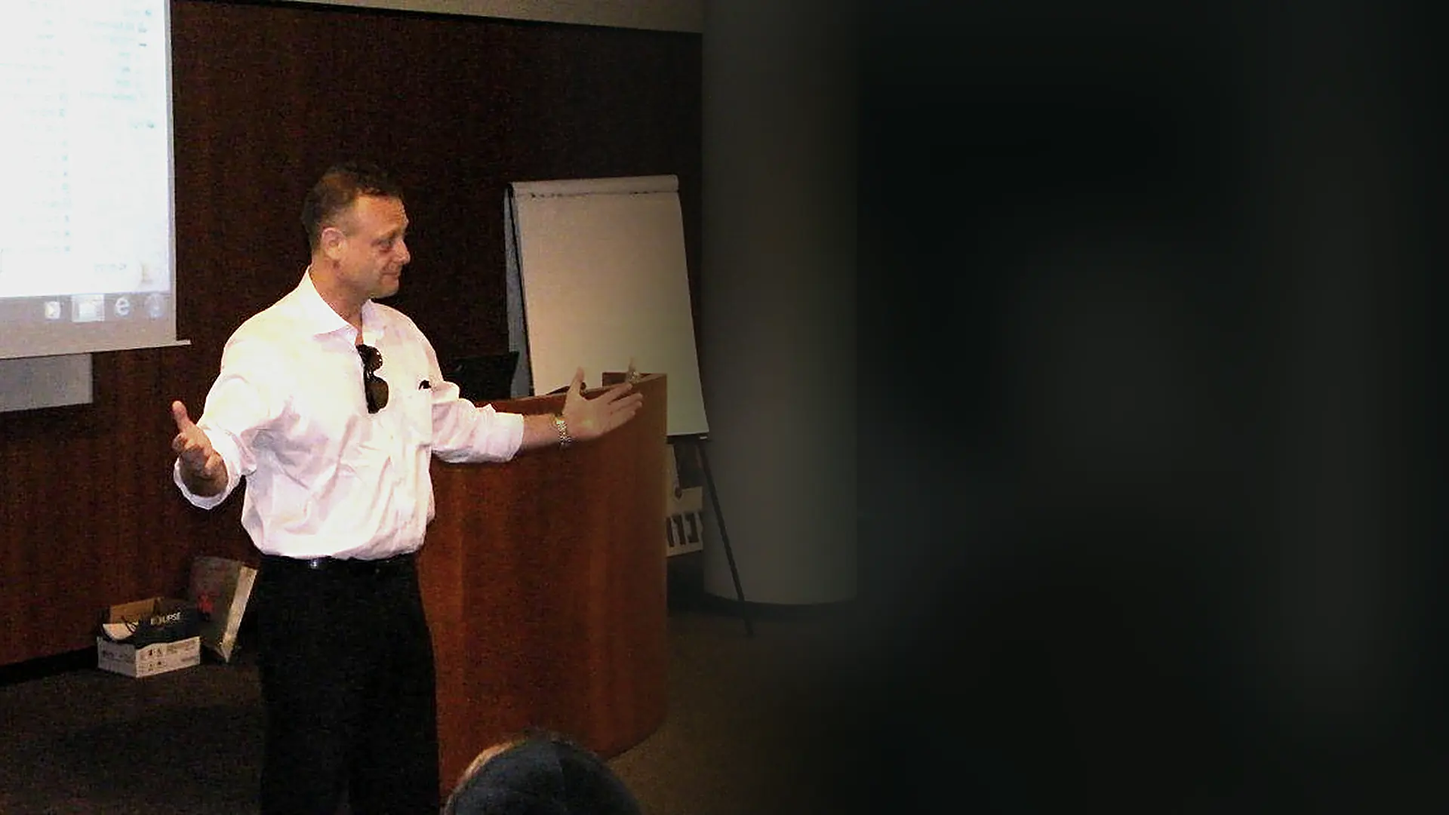
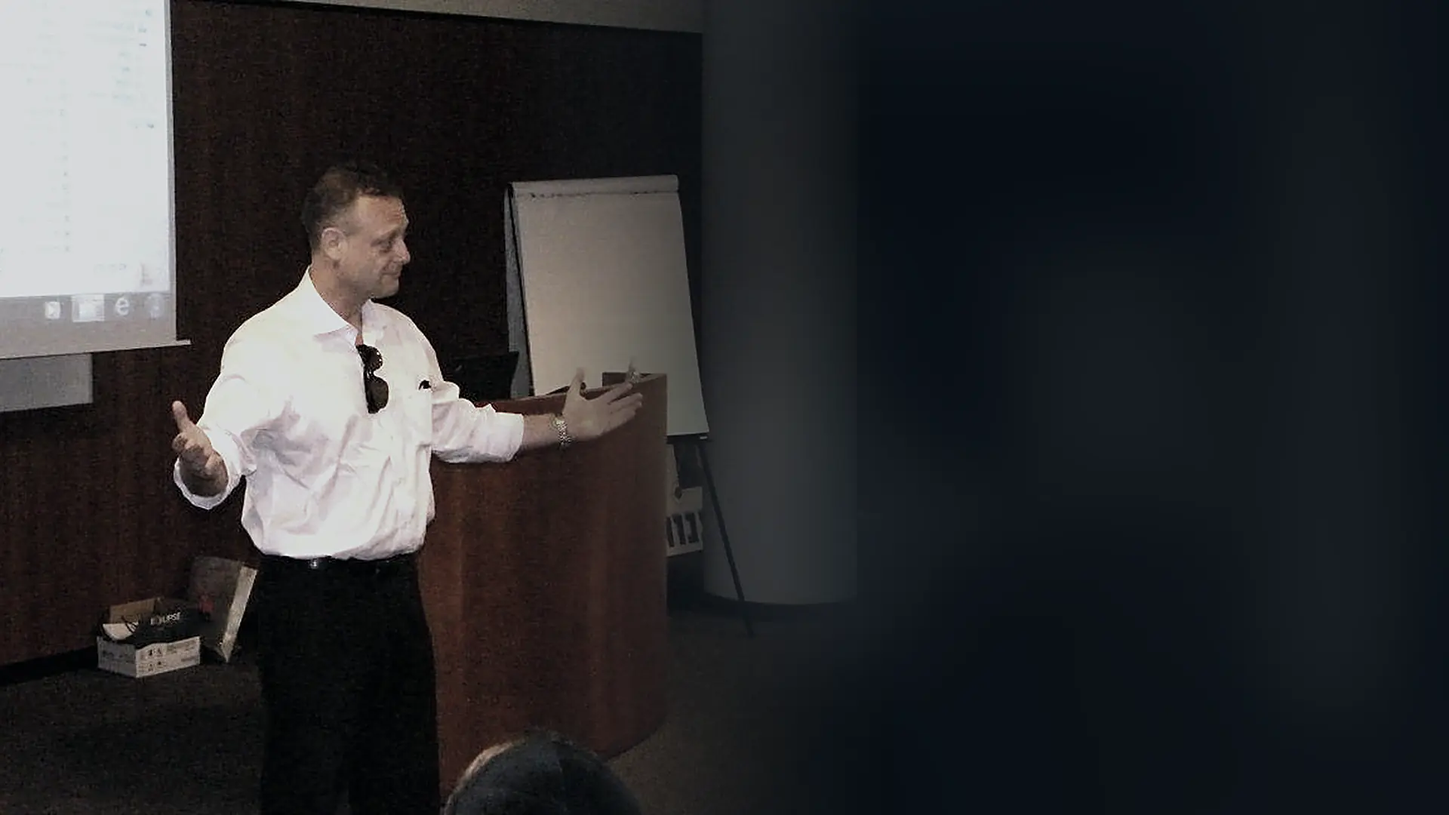
Add files via upload

diff --git a/index.html b/index.html
@@ -3,16 +3,17 @@
 <head>
 <meta charset="utf-8">
 <meta name="viewport" content="width=device-width, initial-scale=1">
-<title>מכון מיטב | חוסה בבצ'יק — הנחיית קבוצות, קורסים והשתלמויות</title>
-<meta name="description" content="מכון מיטב בהובלת חוסה בבצ'יק בונה ומעביר קורסים, סדנאות והשתלמויות לארגונים בכל הארץ, בהתמחות בהנחיית קבוצות ובתהליכים קבוצתיים. מאז 1995.">
+<title>מכון מיטב | חוסה בבצ'יק — ייעוץ, הדרכה והנחיית קבוצות</title>
+<meta name="description" content="מכון מיטב בהובלת חוסה בבצ'יק — ייעוץ, הדרכה והנחיית קבוצות לארגונים בכל הארץ. רגישות רב-תרבותית, פיתוח מנהלים וחוסן אישי וארגוני. מאז 1995.">
 <meta name="robots" content="index, follow, max-snippet:-1, max-image-preview:large">
 <link rel="canonical" href="https://michaelbab7.github.io/machon-meitav/">
+<meta name="theme-color" content="#0B1016">
 
 <meta property="og:type" content="website">
 <meta property="og:locale" content="he_IL">
 <meta property="og:site_name" content="מכון מיטב">
-<meta property="og:title" content="מכון מיטב | חוסה בבצ'יק — הנחיית קבוצות, קורסים והשתלמויות">
-<meta property="og:description" content="מכון מיטב בהובלת חוסה בבצ'יק בונה ומעביר קורסים, סדנאות והשתלמויות לארגונים בכל הארץ, בהתמחות בהנחיית קבוצות ובתהליכים קבוצתיים. מאז 1995.">
+<meta property="og:title" content="מכון מיטב | חוסה בבצ'יק — ייעוץ, הדרכה והנחיית קבוצות">
+<meta property="og:description" content="מכון מיטב בהובלת חוסה בבצ'יק — ייעוץ, הדרכה והנחיית קבוצות לארגונים בכל הארץ. רגישות רב-תרבותית, פיתוח מנהלים וחוסן אישי וארגוני. מאז 1995.">
 <meta property="og:url" content="https://michaelbab7.github.io/machon-meitav/">
 <meta property="og:image" content="https://michaelbab7.github.io/machon-meitav/og-image.jpg">
 <meta name="twitter:card" content="summary_large_image">
@@ -29,7 +30,7 @@
   "name":"מכון מיטב",
   "alternateName":"Meitav Institute",
   "foundingDate":"1995",
-  "description":"מכון מיטב בונה ומעביר קורסים, סדנאות והשתלמויות לארגונים בכל הארץ, בהתמחות בהנחיית קבוצות ובתהליכים קבוצתיים.",
+  "description":"מכון מיטב — ייעוץ, הדרכה והנחיית קבוצות. קורסים, סדנאות והשתלמויות לארגונים בכל הארץ, בהתמחות בהנחיית קבוצות, רגישות רב-תרבותית, פיתוח מנהלים וחוסן אישי וארגוני.",
   "areaServed":{"@type":"Country","name":"ישראל"},
   "email":"machonmeitav@gmail.com",
   "knowsLanguage":["he"],
@@ -38,8 +39,8 @@
     "name":"חוסה בבצ'יק",
     "alternateName":["Jose Babczyk","חוסה בבציק"],
     "jobTitle":"מנכ\"ל מכון מיטב · מנחה קבוצות ומרצה בכיר",
-    "description":"מנחה קבוצות, מרצה בכיר ומנכ\"ל מכון מיטב מאז 1995. בונה קורסים, סדנאות והשתלמויות לארגונים בכל הארץ.",
-    "knowsAbout":["הנחיית קבוצות","דינמיקה קבוצתית","בניית קורסים והשתלמויות","הכשרת מנחים","התמודדות עם התנגדויות","תהליכי שינוי ארגוני","עבודת צוות"],
+    "description":"מייסד ומנכ\"ל מכון מיטב מאז 1995. מומחה מוביל בהנחיית קבוצות, רגישות רב-תרבותית, פיתוח מנהלים ופיתוח חוסן אישי וארגוני.",
+    "knowsAbout":["הנחיית קבוצות","דינמיקה קבוצתית","רגישות רב-תרבותית","דיאלוג בין-תרבותי","פיתוח מנהלים","חוסן אישי וארגוני","הכשרת מנחים","תהליכי שינוי ארגוני"],
     "email":"machonmeitav@gmail.com",
     "sameAs":["https://www.facebook.com/MkwnMytbMeitavConsulting"]
   }
@@ -51,22 +52,23 @@
    כיוון עיצובי: אפל-אור-אפל. עמוד שדר אחד, קצב עורכי.
    ═══════════════════════════════════════════════ */
 :root{
-  --ink:#0D1512;          /* שחור עם נטייה ירוקה */
-  --ink-2:#16211C;
-  --ink-3:#1F2D27;
-  --bone:#F7F4ED;         /* לבן חמים, לא קרמי */
-  --bone-2:#EBE5D7;
-  --bone-3:#DDD5C3;
-  --txt:#2C3733;          /* גוף על בהיר */
-  --txt-2:#5D6B65;
-  --txt-3:#8A968F;
-  --on-dark:#C4D0C9;
-  --on-dark-2:#8B9A93;
-  --brass:#BE8B2C;
-  --brass-2:#DDAA51;
-  --sage:#48695C;
-  --line:#D9D1BF;
-  --line-dark:#28352F;
+  /* פלטה נגזרת מהלוגו: שחור #0F0F0F + ציאן #26C0F0 */
+  --ink:#0B1016;
+  --ink-2:#131A23;
+  --ink-3:#1C2531;
+  --bone:#F5F8FA;
+  --bone-2:#E7EEF3;
+  --bone-3:#D6E1E9;
+  --txt:#16202A;
+  --txt-2:#4B5C6B;
+  --txt-3:#7A8C9A;
+  --on-dark:#C2D2DE;
+  --on-dark-2:#8FA3B3;
+  --brass:#0A6F99;      /* מבטא לרקע בהיר — עומד בניגודיות */
+  --brass-2:#26C0F0;    /* ציאן המותג — לרקע כהה */
+  --sage:#0A6F99;
+  --line:#D3DEE6;
+  --line-dark:#22303C;
 
   --disp:'Noto Serif Hebrew','Frank Ruhl Libre',Georgia,serif;
   --sans:'Heebo','Assistant',-apple-system,'Segoe UI',Arial,sans-serif;
@@ -115,12 +117,12 @@ strong{font-weight:700;color:var(--ink)}
 .dark .mut{color:var(--on-dark-2)}
 
 /* ── skip ── */
-.skip{position:absolute;top:-100px;right:18px;z-index:999;background:var(--brass);color:var(--ink);padding:12px 22px;font-weight:700;text-decoration:none}
+.skip{position:absolute;top:-100px;right:18px;z-index:999;background:var(--brass-2);color:#06212C;padding:12px 22px;font-weight:700;text-decoration:none}
 .skip:focus{top:0}
 
 /* ── header ── */
 .hdr{position:fixed;top:0;right:0;left:0;z-index:90;transition:background .3s,border-color .3s,backdrop-filter .3s;border-bottom:1px solid transparent}
-.hdr.solid{background:rgba(247,244,237,.94);backdrop-filter:blur(14px);border-bottom-color:var(--line)}
+.hdr.solid{background:rgba(245,248,250,.95);backdrop-filter:blur(14px);border-bottom-color:var(--line)}
 .hdr-in{display:flex;align-items:center;justify-content:space-between;gap:20px;min-height:66px}
 .mark{display:flex;flex-direction:column;text-decoration:none;line-height:1.15}
 .mark b{font-family:var(--disp);font-size:1.22rem;font-weight:800;color:var(--bone);letter-spacing:-.02em;transition:color .3s}
@@ -133,10 +135,10 @@ strong{font-weight:700;color:var(--ink)}
 .hdr.solid .nav a{color:var(--txt-2)}
 .hdr.solid .nav a:hover{color:var(--brass)}
 .nav .go{
-  background:var(--brass);color:var(--ink)!important;font-weight:700;padding:10px 20px;
+  background:var(--brass-2);color:#06212C!important;font-weight:700;padding:10px 20px;
   margin-inline-start:10px;border-radius:2px;transition:background .2s,transform .2s;
 }
-.nav .go:hover{background:var(--brass-2);transform:translateY(-1px)}
+.nav .go:hover{background:#5FD2F5;transform:translateY(-1px)}
 @media(max-width:940px){.nav a:not(.go){display:none}}
 
 /* ── buttons ── */
@@ -146,8 +148,8 @@ strong{font-weight:700;color:var(--ink)}
   border:1.5px solid transparent;transition:background .2s,color .2s,border-color .2s,transform .2s;
 }
 .btn:hover{transform:translateY(-2px)}
-.btn-b{background:var(--brass);color:var(--ink)}
-.btn-b:hover{background:var(--brass-2);color:var(--ink)}
+.btn-b{background:var(--brass-2);color:#06212C;font-weight:700}
+.btn-b:hover{background:#5FD2F5;color:#06212C}
 .btn-o{border-color:rgba(255,255,255,.34);color:var(--bone)}
 .btn-o:hover{border-color:var(--brass-2);color:var(--brass-2)}
 .btn-d{border-color:var(--ink);color:var(--ink)}
@@ -160,13 +162,13 @@ strong{font-weight:700;color:var(--ink)}
 .hero-img img{width:100%;height:100%;object-fit:cover;object-position:34% center}
 @media(max-width:760px){
   .hero-img img{object-position:26% center}
-  .hero-img::after{background:linear-gradient(0deg,rgba(13,21,18,.94) 0%,rgba(13,21,18,.80) 38%,rgba(13,21,18,.58) 72%,rgba(13,21,18,.42) 100%)}
+  .hero-img::after{background:linear-gradient(0deg,rgba(11,16,22,.94) 0%,rgba(11,16,22,.80) 38%,rgba(11,16,22,.58) 72%,rgba(11,16,22,.42) 100%)}
 }
 .hero-img::after{
   content:'';position:absolute;inset:0;
   background:
-    linear-gradient(285deg,rgba(13,21,18,.04) 0%,rgba(13,21,18,.40) 34%,rgba(13,21,18,.86) 66%,rgba(13,21,18,.96) 100%),
-    linear-gradient(0deg,rgba(13,21,18,.42) 0%,rgba(13,21,18,0) 40%);
+    linear-gradient(285deg,rgba(11,16,22,.04) 0%,rgba(11,16,22,.40) 34%,rgba(11,16,22,.86) 66%,rgba(11,16,22,.96) 100%),
+    linear-gradient(0deg,rgba(11,16,22,.42) 0%,rgba(11,16,22,0) 40%);
 }
 .hero-in{position:relative;z-index:2;width:100%;padding-block:clamp(120px,16vh,180px) clamp(46px,7vh,80px)}
 .hero h1{max-width:15ch;color:var(--bone)}
@@ -233,7 +235,7 @@ strong{font-weight:700;color:var(--ink)}
 .split{display:grid;grid-template-columns:1.02fr .98fr;gap:clamp(34px,5.5vw,80px);align-items:center}
 .split.top{align-items:start}
 @media(max-width:940px){.split{grid-template-columns:1fr;gap:38px}}
-.frame{aspect-ratio:4/5;overflow:hidden;box-shadow:0 30px 70px rgba(13,21,18,.16)}
+.frame{aspect-ratio:4/5;overflow:hidden;box-shadow:0 30px 70px rgba(11,16,22,.16)}
 .frame img{width:100%;height:100%;object-fit:cover}
 .frame.wide{aspect-ratio:3/2}
 
@@ -241,7 +243,7 @@ strong{font-weight:700;color:var(--ink)}
 .band{background:var(--ink);padding-block:clamp(80px,11vw,150px);position:relative;overflow:hidden}
 .band::before{
   content:'”';position:absolute;top:-.18em;right:4%;font-family:var(--disp);font-size:clamp(14rem,26vw,30rem);
-  color:rgba(190,139,44,.09);line-height:1;pointer-events:none;
+  color:rgba(38,192,240,.10);line-height:1;pointer-events:none;
 }
 .band blockquote{
   position:relative;margin:0;font-family:var(--disp);font-weight:700;
@@ -311,7 +313,7 @@ strong{font-weight:700;color:var(--ink)}
 .way{flex:1 1 220px;padding:26px 22px;border-inline-start:1px solid var(--line-dark);border-bottom:1px solid var(--line-dark)}
 .way:first-child{border-inline-start:0}
 .way span{display:block;font-size:.68rem;letter-spacing:.18em;color:var(--on-dark-2);margin-bottom:9px}
-.way a,.way em{font-family:var(--disp);font-size:1.12rem;font-weight:600;color:var(--bone);text-decoration:none;font-style:normal;border-bottom:1px solid rgba(190,139,44,.5);padding-bottom:3px}
+.way a,.way em{font-family:var(--disp);font-size:1.12rem;font-weight:600;color:var(--bone);text-decoration:none;font-style:normal;border-bottom:1px solid rgba(38,192,240,.55);padding-bottom:3px}
 .way a:hover{color:var(--brass-2);border-color:var(--brass-2)}
 .way em{color:var(--on-dark-2);border-bottom-style:dashed}
 
@@ -327,10 +329,10 @@ strong{font-weight:700;color:var(--ink)}
 /* ═══ STICKY MOBILE CTA ═══ */
 .dock{
   position:fixed;bottom:0;right:0;left:0;z-index:95;display:none;
-  background:rgba(13,21,18,.96);backdrop-filter:blur(10px);border-top:1px solid var(--line-dark);
+  background:rgba(11,16,22,.96);backdrop-filter:blur(10px);border-top:1px solid var(--line-dark);
   padding:11px 16px calc(11px + env(safe-area-inset-bottom));
 }
-.dock a{display:block;text-align:center;background:var(--brass);color:var(--ink);font-weight:700;padding:14px;text-decoration:none;border-radius:2px;font-size:.98rem}
+.dock a{display:block;text-align:center;background:var(--brass-2);color:#06212C;font-weight:700;padding:14px;text-decoration:none;border-radius:2px;font-size:.98rem}
 @media(max-width:760px){
   .dock{display:block}
   body{padding-bottom:74px}
@@ -353,6 +355,25 @@ strong{font-weight:700;color:var(--ink)}
   font-size:.9rem;color:var(--txt-2);background:var(--bone);
 }
 .dark .topic{border-color:var(--line-dark);color:var(--on-dark);background:transparent}
+
+/* ═══ LOGO ═══ */
+.mark{position:relative;display:block;line-height:0}
+.mark img{height:52px;width:auto;display:block;transition:opacity .3s}
+.mark .lg-dark{position:absolute;inset:0;opacity:0}
+.hdr.solid .mark .lg-light{opacity:0}
+.hdr.solid .mark .lg-dark{opacity:1}
+.mark .sr{position:absolute;width:1px;height:1px;overflow:hidden;clip:rect(0,0,0,0)}
+@media(max-width:520px){.mark img{height:42px}}
+.ft-logo{height:52px;width:auto;margin-bottom:14px;display:block}
+
+/* ═══ FORMATS ═══ */
+.formats{display:grid;grid-template-columns:repeat(3,1fr);gap:1px;background:var(--line);
+  margin-top:clamp(34px,4.5vw,52px);border:1px solid var(--line)}
+@media(max-width:900px){.formats{grid-template-columns:repeat(2,1fr)}}
+@media(max-width:600px){.formats{grid-template-columns:1fr}}
+.fmt{background:var(--bone);padding:26px 24px;display:flex;flex-direction:column;gap:8px}
+.fmt b{font-family:var(--disp);font-size:1.16rem;color:var(--ink);font-weight:700;letter-spacing:-.015em}
+.fmt span{font-size:.93rem;color:var(--txt-2);line-height:1.65}
 </style>
 </head>
 <body>
@@ -361,12 +382,13 @@ strong{font-weight:700;color:var(--ink)}
 <header class="hdr" id="hdr">
   <div class="wrap hdr-in">
     <a class="mark" href="#main">
-      <b>חוסה בבצ'יק</b>
-      <span>מכון מיטב · מאז 1995</span>
+      <img class="lg-light" src="logo-light.webp" alt="מכון מיטב — ייעוץ, הדרכה והנחיית קבוצות" width="520" height="199">
+      <img class="lg-dark" src="logo-dark.webp" alt="" aria-hidden="true" width="520" height="199">
     </a>
     <nav class="nav" aria-label="ניווט ראשי">
-      <a href="#what">מה אנחנו עושים</a>
-      <a href="#mitav">המכון והצוות</a>
+      <a href="#what">תחומים</a>
+      <a href="#formats">פורמטים</a>
+      <a href="#mitav">המכון</a>
       <a href="#how">איך זה עובד</a>
       <a href="#faq">שאלות</a>
       <a class="go" href="#contact">לתיאום שיחה</a>
@@ -383,14 +405,15 @@ strong{font-weight:700;color:var(--ink)}
   </div>
   <div class="wrap hero-in">
     <div class="lbl">מכון מיטב · מאז 1995</div>
-    <h1 class="d1">הנחיית קבוצות,<br>קורסים והשתלמויות</h1>
+    <h1 class="d1">ייעוץ, הדרכה<br>והנחיית קבוצות</h1>
     <p class="lead">
-      חוסה בבצ'יק, מנכ"ל מכון מיטב, בונה ומעביר תהליכי הכשרה לארגונים בכל הארץ —
-      יחד עם צוות מרצים מנוסה. <strong>שלושה עשורים של עבודה עם קבוצות.</strong>
+      חוסה בבצ'יק, מייסד ומנכ"ל מכון מיטב, מומחה להנחיית קבוצות, רגישות רב-תרבותית,
+      פיתוח מנהלים וחוסן אישי וארגוני.
+      <strong>שלושה עשורים של עבודה עם ארגונים בכל הארץ.</strong>
     </p>
     <div class="row">
       <a class="btn btn-b" href="#contact">לתיאום שיחת אפיון</a>
-      <a class="btn btn-o" href="#what">מה אנחנו עושים</a>
+      <a class="btn btn-o" href="#what">תחומי המומחיות</a>
     </div>
   </div>
   <div class="scroll-hint">גלול</div>
@@ -502,11 +525,11 @@ strong{font-weight:700;color:var(--ink)}
 <section class="sec" id="what">
   <div class="wrap">
     <div class="rv">
-      <div class="lbl">מה אנחנו עושים</div>
-      <h2 class="d2 col">ארבעה סוגי עבודה</h2>
+      <div class="lbl">תחומי המומחיות</div>
+      <h2 class="d2 col">ארבעה תחומים, בסיס אחד</h2>
       <p class="lead col" style="margin-top:24px">
-        הכול נשען על אותו בסיס — הבנה של מה שקורה בין אנשים כשהם לומדים יחד.
-        הפורמט נגזר מהמטרה, לא להפך.
+        הכול נשען על אותה הבנה — מה קורה בין אנשים כשהם עובדים, לומדים ומשתנים יחד.
+        התחומים משיקים זה לזה, ורוב התהליכים נוגעים ביותר מאחד.
       </p>
     </div>
 
@@ -517,77 +540,85 @@ strong{font-weight:700;color:var(--ink)}
           <h3 class="d3">הנחיית קבוצות ודינמיקה קבוצתית</h3>
           <p>
             הליבה של העבודה. קבוצה היא לא אוסף של אנשים באותו חדר — יש בה תפקידים,
-            כוחות ודפוסים שמשפיעים על מה שנלמד בה. הנחיה מקצועית היא היכולת לקרוא את
-            זה בזמן אמת ולהשתמש בזה.
+            כוחות ודפוסים שמשפיעים על מה שנלמד בה. הנחיה מקצועית היא היכולת לקרוא
+            את זה בזמן אמת ולהשתמש בזה.
           </p>
         </div>
         <div class="aside">
           <b>מתאים ל</b>
-          צוותים · קבוצות למידה · קבוצות תהליכיות · מנהלים המובילים תהליכים
+          צוותים · קבוצות למידה · קבוצות תהליכיות · מנחים בהכשרה
         </div>
       </div>
 
       <div class="entry">
         <span class="n">02</span>
         <div>
-          <h3 class="d3">בניית קורסים, סדנאות והשתלמויות</h3>
+          <h3 class="d3">רגישות רב-תרבותית ודיאלוג</h3>
           <p>
-            אנחנו בונים תוכניות מאפס: מיפוי הצורך, הגדרת מטרות ותוצרים, בניית הסילבוס,
-            כתיבת החומרים והעברה בפועל. מיום עיון בודד ועד תוכנית שנפרסת על פני חודשים,
-            כולל תעודות סיום.
+            בניית מרחבים של דיאלוג, הבנה ושיתוף פעולה בין אנשים מרקעים שונים.
+            לא סדנה על ערכים — עבודה על הרגעים שבהם קודים תרבותיים מתנגשים בפועל,
+            ומה עושים איתם ביום שני בבוקר.
           </p>
         </div>
         <div class="aside">
           <b>מתאים ל</b>
-          מנהלי הדרכה · משאבי אנוש · מוסדות הכשרה · ארגונים שבונים תוכנית פנימית
+          צוותים מעורבים · שירות לקהל מגוון · מערכות חינוך ובריאות · רשויות
         </div>
       </div>
 
       <div class="entry">
         <span class="n">03</span>
         <div>
-          <h3 class="d3">הכשרת מנחים ומדריכים</h3>
+          <h3 class="d3">פיתוח מנהלים</h3>
           <p>
-            הכשרה של מי שיעביר את התהליכים הלאה — בתוך הארגון או כמקצוע. כוללת תרגול
-            מונחה, הדרכה אישית וליווי בשטח, ולא רק למידה תיאורטית.
+            פיתוח יכולות ניהול והובלת תהליכי שינוי משמעותיים בארגון. עבודה על מה
+            שקורה בפועל בחדר הישיבות ומול העובדים — קבלת החלטות, שיחות קשות,
+            התמודדות עם התנגדויות והנעה של צוות.
           </p>
         </div>
         <div class="aside">
           <b>מתאים ל</b>
-          מנחים בתחילת דרכם · מדריכים בארגון · אנשי מקצוע בהסבה
+          מנהלים בכירים · דרג ביניים · ראשי צוותים · מובילי שינוי
         </div>
       </div>
 
       <div class="entry">
         <span class="n">04</span>
         <div>
-          <h3 class="d3">הרצאות והכשרות לארגונים</h3>
+          <h3 class="d3">חוסן אישי וארגוני</h3>
           <p>
-            מהרצאת מליאה בכנס, דרך יום עיון לצוות, ועד סדרת מפגשים. מותאמות לתוכן,
-            לגודל הקהל ולזמן שיש לכם.
+            חיזוק היכולת של אנשים ושל מערכות לתפקד תחת לחץ ולהתאושש ממנו.
+            עבודה על שחיקה, על עומס מתמשך ועל מה שמחזיק צוות יחד כשהתנאים
+            נעשים קשים.
           </p>
         </div>
         <div class="aside">
           <b>מתאים ל</b>
-          כנסים · ימי עיון · אירועי צוות · תוכניות רווחה ופיתוח
+          צוותים בסביבות לחץ · מערכות בריאות · ארגוני חירום · מקומות עבודה בשינוי
         </div>
       </div>
     </div>
+  </div>
+</section>
 
-    <div class="rv" style="margin-top:clamp(38px,5vw,58px)">
-      <h3 class="d3" style="margin-bottom:16px">נושאי תוכן מבוקשים</h3>
-      <p style="display:flex;flex-wrap:wrap;gap:9px">
-        <span class="topic">דינמיקה קבוצתית</span>
-        <span class="topic">התמודדות עם התנגדויות</span>
-        <span class="topic">עבודת צוות</span>
-        <span class="topic">תקשורת בין-אישית</span>
-        <span class="topic">תהליכי שינוי ארגוני</span>
-        <span class="topic">ניהול קונפליקטים</span>
-        <span class="topic">מנהיגות והובלת צוות</span>
-        <span class="topic">שחיקה וחוסן</span>
-        <span class="topic">רגישות תרבותית</span>
-        <span class="topic">שיחות קשות</span>
+<!-- ═══ FORMATS ═══ -->
+<section class="sec tone" id="formats">
+  <div class="wrap">
+    <div class="rv">
+      <div class="lbl">פורמטים</div>
+      <h2 class="d2 col">מהרצאה בודדת ועד תוכנית של חצי שנה</h2>
+      <p class="lead col" style="margin-top:24px">
+        אנחנו בונים תוכניות מאפס: מיפוי הצורך, הגדרת מטרות ותוצרים, בניית הסילבוס,
+        כתיבת החומרים והעברה בפועל. הפורמט נגזר מהמטרה, לא להפך.
       </p>
+    </div>
+    <div class="formats rv">
+      <div class="fmt"><b>קורסים</b><span>תוכנית לימודים מלאה, כולל סילבוס, חומרים ותעודות סיום</span></div>
+      <div class="fmt"><b>סדנאות</b><span>חצי יום או יום מלא, עם עבודה על מקרים אמיתיים מהארגון</span></div>
+      <div class="fmt"><b>השתלמויות</b><span>סדרת מפגשים לאורך חודשים, עם משימות יישום בין מפגש למפגש</span></div>
+      <div class="fmt"><b>הרצאות</b><span>מליאה בכנס, יום עיון או אירוע ארגוני — 60 עד 90 דקות</span></div>
+      <div class="fmt"><b>הכשרת מנחים</b><span>למי שיעביר את התהליכים הלאה, כולל תרגול מונחה והדרכה אישית</span></div>
+      <div class="fmt"><b>ליווי מתמשך</b><span>ייעוץ שוטף למנהלים ולצוותים לאורך תהליך שינוי</span></div>
     </div>
   </div>
 </section>
@@ -756,13 +787,14 @@ strong{font-weight:700;color:var(--ink)}
 <footer class="ft">
   <div class="wrap">
     <div class="ft-in">
-      <div style="max-width:38ch">
-        <b>מכון מיטב</b>
-        חוסה בבצ'יק, מנכ"ל · מנחה קבוצות ומרצה בכיר.<br>
-        קורסים, סדנאות והשתלמויות לארגונים בכל הארץ, מאז 1995.
+      <div style="max-width:40ch">
+        <img class="ft-logo" src="logo-light.webp" alt="מכון מיטב" width="520" height="199">
+        חוסה בבצ'יק, מייסד ומנכ"ל · מנחה קבוצות ומרצה בכיר.<br>
+        ייעוץ, הדרכה והנחיית קבוצות לארגונים בכל הארץ, מאז 1995.
       </div>
       <nav aria-label="ניווט תחתון">
-        <a href="#what">מה אנחנו עושים</a>
+        <a href="#what">תחומי המומחיות</a>
+        <a href="#formats">פורמטים</a>
         <a href="#mitav">המכון והצוות</a>
         <a href="#how">איך זה עובד</a>
         <a href="#faq">שאלות נפוצות</a>
